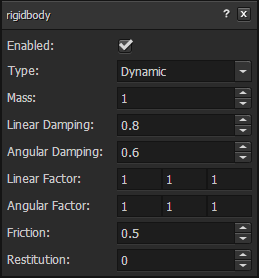
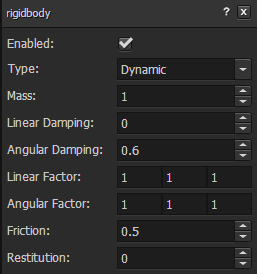
Redone forces tutorial + other small errors

diff --git a/content/tutorials/beginner/Using-forces-on-rigid-bodies-V2.md b/content/tutorials/beginner/Using-forces-on-rigid-bodies-V2.md
@@ -1,0 +1,225 @@
+---
+title: Using Forces on Rigid Bodies V2
+template: tutorial-page.tmpl.html
+
+---
+
+<iframe src="http://apps.playcanvas.com/adamraz/using_forces_on_rigid_bodies/DynamicBody?overlay=false"></iframe>
+
+*Use the cursor keys to apply impulses, the WASD keys to apply torques and rotate the cube. Press and hold F to apply a constant upward force and stop the cube from falling.*
+*Press R to reset the cube.*
+*Try to get the cube to balance and spin on one of its corners!*
+*The full code used is shown at the bottom of this page.*
+
+
+In this tutorial we will show you how to use forces to control a dynamic rigidbody. We will briefly show the use of forces, impulses, torques and the use of Designer settings to customize behaviour (via gravity, damping and friction settings).
+
+##Moving dynamic rigidbodies
+
+The first point to note is that *you should not set velocities* on dynamic rigidbody types, code dealing with velocity such as `this.entity.rigidbody.linearVelocity.x` is read-only for dynamic bodies. However, you can, as usual, read and set the Entity’s position via [Entity methods][entities], however the rigidbody must then by synced to the transform matrix of the parent Entity via the `SyncEntityToBody()` command.
+
+##General setup
+
+We set up a basic scene with a cube (entity with model, rigidbody, collision and script components) and a floor (with model, rigidbody and collision components). The cube’s rigidbody was set to dynamic while the floor’s rigidbody was set to static. We created some materials for each box and changed the diffuse colors just to make it easier on the eye. We have also activated the ‘cast shadows’ option on both the DirectionalLight and DynamicBody entities. 
+
+##The force commands
+
+###Applying a constant force
+~~~javascript~~~
+if (context.keyboard.isPressed(pc.input.KEY_F) ) {
+    this.entity.rigidbody.applyForce(0, 9.8, 0);
+}
+~~~
+Here a force along the global y-axis is applied to the accessed entity when the user presses the F key. The point of application of the force vector can also be set. [See this documentation][rigidbody api] for more details.
+
+###Impulses
+~~~javascript~~~
+if (context.keyboard.isPressed(pc.input.KEY_UP) && ! this.brakeY) {
+    this.entity.rigidbody.applyImpulse(0, 2, 0);
+}
+~~~
+When the `brakeY` flag has not been activated (see Limiting and Control section below) the cube is given a y-axis impulse to impart an instant change of velocity.
+
+###Torques
+~~~javascript~~~
+if (context.keyboard.isPressed(pc.input.KEY_W) ) {
+    this.entity.rigidbody.applyTorque(-this.torque, 0, 0);
+}
+~~~
+Torques are applied to the entity via `.rigidbody.applyTorque(x, y, z)`.
+
+###TorqueImpulses
+~~~javascript~~~
+this.entity.rigidbody.applyTorqueImpulse(x, y, z)
+~~~
+Instantaneous changes in angular velocity are applied via `applyTorqueImpulse(x, y, z)`. This was not used in the code for the above demo.
+
+
+##Limiting and control
+
+Both Designer settings and code were set to prevent the constant application of unbalanced forces (and so prevent a body from continuously accelerating and moving out of control). We enabled angular damping on the cube’s attribute editor as well as friction on both the cube and floor.
+
+<img src="/images/tutorials/forces/rigidbody_settings.png" alt="rigidbody_settings"/>
+
+~~~js~~~
+// initialized code
+this.maxVelocityX = 55;
+this.maxVelocityY = 6;
+this.brakeX = false;
+this.brakeY = false;
+~~~
+~~~js~~~
+//code within the update function
+this.playerPos = this.entity.getLocalPosition();
+var playerVel = this.entity.rigidbody.linearVelocity;
+
+// Setting flags to limit application of forces later in code.
+// Decelerations are applied to ensure flags return to false.
+if (playerVel.x > this.maxVelocityX || playerVel.x < (this.maxVelocityX * -1) ) {
+    this.entity.rigidbody.applyImpulse(-0.1 * playerVel.x, 0, 0);
+    this.brakeX = true;
+} else {
+    this.brakeX = false;
+}
+~~~
+We set limits to the cube’s speed in the initialized code, then in the update function set a flag when the max speed is exceeded to prevent further keyboard inputs (listed in the force commands section above) applying any more unbalanced forces or torques to the body. But without active deceleration the `brakeX` flag might never switch value from true to false (in this case permanently preventing further impulses). This code explicitly decelerates the object with an impulse proportional but opposite to the object’s velocity. This is also done in the y axis and helps prevent the cube from being boosted beyond the viewable area.
+
+###Teleport code
+~~~javascript~~~
+if (this.playerPos.x < -8.5) {
+    this.teleport(8.2);
+}
+if (this.playerPos.x > 8.5) {
+    this.teleport(-8.2);
+}
+~~~
+~~~javascript~~~
+// Keeping the cube on screen - cube moves off of one screen edge then appears from the opposite edge.
+teleport: function (newXPosition) {
+    this.entity.setLocalPosition(newXPosition, this.playerPos.y, this.playerPos.z);
+    this.entity.rigidbody.syncEntityToBody();
+},
+~~~
+If the cube moves beyond the viewable area in the x-direction the teleport function is called and the cube entity is teleported across the screen, with the rigidbody then synced to match the entity's new position. The entity is teleported to a less extreme left/right position so as not to continuously activate the if() statement.
+
+
+###Reset cube code
+~~~javascript~~~
+if (context.keyboard.wasPressed(pc.input.KEY_R)) {
+    this.reset();
+}
+~~~
+~~~javascript~~~
+reset: function () {
+    this.entity.setPosition(0, 2, 0);
+    this.entity.rigidbody.syncEntityToBody();
+    this.entity.rigidbody.linearVelocity = pc.Vec3.ZERO;
+    this.entity.rigidbody.angularVelocity = pc.Vec3.ZERO;
+}
+~~~
+We include a reset function that brings the cube to its original position and, as mentioned above, synchronizes the rigidbody’s location to that of the teleported entity. The final two lines in the reset function reset the bodies linear and angular velocities to zero. The objects orientation could also be reset, but is not carried out in this code.
+
+
+##Full code listing
+
+~~~javascript~~~
+pc.script.create('DynamicBody', function (context) {
+    // Creates a new MrDynamic instance
+    var DynamicBody = function (entity) {
+        this.entity = entity;
+    };
+
+    DynamicBody.prototype = {
+        // Called once after all resources are loaded and before the first update
+        initialize: function () {
+            this.maxVelocityX = 55;
+            this.maxVelocityY = 6;
+            this.brakeX = false;
+            this.brakeY = false;
+            this.torque = 7;
+            context.keyboard.on(pc.input.EVENT_KEYDOWN, this.onKeyDown, this);
+        },
+
+        // Called every frame, dt is time in seconds since last update
+        update: function (dt) {
+            this.playerPos = this.entity.getLocalPosition();
+            var playerVel = this.entity.rigidbody.linearVelocity;
+            
+            // Setting flags to limit application of forces later in code.
+            // Decelerations are applied to ensure flags return to false.
+            if (playerVel.x > this.maxVelocityX || playerVel.x < (this.maxVelocityX * -1) ) {
+                this.entity.rigidbody.applyImpulse(-0.1 * playerVel.x, 0, 0);
+                this.brakeX = true;
+            } else {
+                this.brakeX = false;
+            }
+            
+            if (playerVel.y > this.maxVelocityY || this.playerPos.y > 8) {
+                this.entity.rigidbody.applyImpulse(0, -0.1 * playerVel.y, 0);
+                this.brakeY = true;
+            } else {
+                this.brakeY = false;
+            }
+            
+            //keyboard controls and applying forces and moments.
+            if (context.keyboard.isPressed(pc.input.KEY_LEFT) && ! this.brakeX) {
+                this.entity.rigidbody.applyImpulse(-1, 0, 0);
+            }
+            if (context.keyboard.isPressed(pc.input.KEY_RIGHT) && ! this.brakeX) {
+                this.entity.rigidbody.applyImpulse(1, 0, 0);
+            }
+            if (context.keyboard.isPressed(pc.input.KEY_UP) && ! this.brakeY) {
+                this.entity.rigidbody.applyImpulse(0, 2, 0);
+            }
+            if (context.keyboard.isPressed(pc.input.KEY_A) ) {
+                this.entity.rigidbody.applyTorque(0, this.torque, 0);
+            }
+            if (context.keyboard.isPressed(pc.input.KEY_D) ) {
+                this.entity.rigidbody.applyTorque(0, -this.torque, 0);
+            }
+            if (context.keyboard.isPressed(pc.input.KEY_W) ) {
+                this.entity.rigidbody.applyTorque(-this.torque, 0, 0);
+            }
+            if (context.keyboard.isPressed(pc.input.KEY_S) ) {
+                this.entity.rigidbody.applyTorque(this.torque, 0, 0);
+            }
+            if (context.keyboard.isPressed(pc.input.KEY_F) ) {
+                this.entity.rigidbody.applyForce(0, 9.8, 0);
+            }
+            
+            if (context.keyboard.wasPressed(pc.input.KEY_R)) {
+                this.reset();
+            }
+            
+            // Keeping the cube on screen - cube moves off of one screen edge then appears from the opposite edge.
+            if (this.playerPos.x < -8.5) {
+                this.teleport(8.2);
+            }
+            if (this.playerPos.x > 8.5) {
+                this.teleport(-8.2);
+            }
+        },
+        teleport: function (newXPosition) {
+            this.entity.setLocalPosition(newXPosition, this.playerPos.y, this.playerPos.z);
+            this.entity.rigidbody.syncEntityToBody();
+        },
+        
+        onKeyDown: function (event) {
+            event.event.preventDefault();
+        },
+        
+        reset: function () {
+            this.entity.setPosition(0, 2, 0);
+            this.entity.rigidbody.syncEntityToBody();
+            this.entity.rigidbody.linearVelocity = pc.Vec3.ZERO;
+            this.entity.rigidbody.angularVelocity = pc.Vec3.ZERO;
+        }
+    };
+
+    return DynamicBody;
+});
+~~~
+
+
+[entities]: /tutorials/beginner/manipulating-entities/
+[rigidbody api]: /engine/api/stable/symbols/pc.fw.RigidBodyComponent.html#applyForce

diff --git a/content/tutorials/beginner/Controlling-audio.md b/content/tutorials/beginner/Controlling-audio.md
@@ -41,7 +41,7 @@ If an action is required to execute when an audio file stops playing, a timer [(
 
 Pausing and unpausing can still cause an audio file to play even after the `stop()` function has been called on the audiosource entity. ***This happens if a sound has been paused, then stopped, then unpaused.***
 
-The code used for one sphere in the above Playcanvas app is as follows:
+The code used for one sphere in the above PlayCanvas app is as follows:
 
 ~~~javascript~~~
 pc.script.create('audioL', function (context) {

diff --git a/content/tutorials/beginner/using-lights-ver1.md b/content/tutorials/beginner/using-lights-ver1.md
@@ -28,7 +28,12 @@ The main lighting commands to access the light component of an entity and affect
 ~~~javascript~~~
 this.entity.light.color.r = 0.5;
 
-this.activeCamera.light.color.set(0, 1, 0, 1)
+var x = this.activeLight.light.color;
+x.set(0, 1, 0, 1)
+this.activeLight.light.color = x;
+
+var c = new pc.Color(1,1,1);
+this.activeLight.color = c;
 
 this.entity.light.intensity = 9.5;
 
